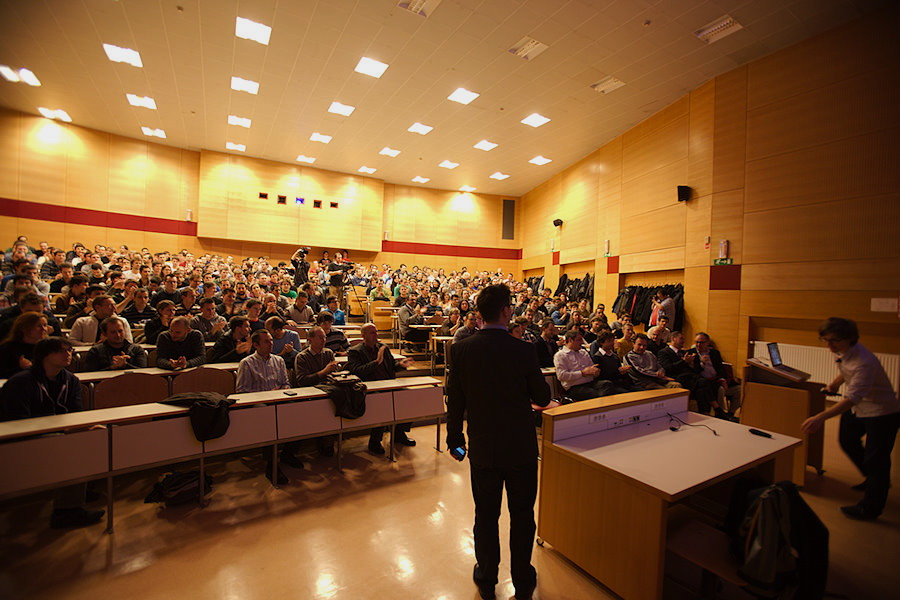
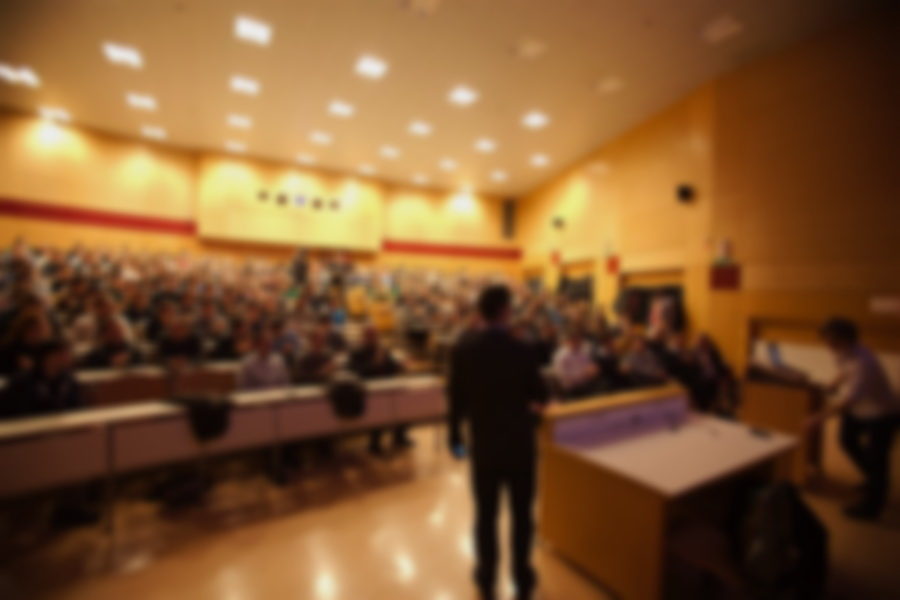
Edit Signup BG image //Blur + Layout CSS

diff --git a/application/views/includes/header.php b/application/views/includes/header.php
@@ -57,8 +57,8 @@ $profile = base_url("index.php/user/profile");
                 </ul>
                 <div class="navbar-text pull-right" style="margin-bottom: -30px">
                     <?php echo form_open("user/signout"); ?>
-                    Logged in as <a href="<?php echo $profile ?>" class="navbar-link"><?php echo $this->session->userdata('user_name'); ?></a>
-                    <button type="submit" value="signout" class="btn" style="margin-bottom: 10px; margin-left: 10px">Sign out</button>
+                    Logged in as <a href="<?php echo $profile ?>" class="navbar-link"><b><?php echo $this->session->userdata('user_name'); ?></b></a>
+                    <button type="submit" value="signout" class="btn btn-danger" style="margin-bottom: 10px; margin-left: 10px">Sign out</button>
                     <?php echo form_close(); ?>
                 </div>
             </div><!--/.nav-collapse -->

diff --git a/application/views/login/signup.php b/application/views/login/signup.php
@@ -2,7 +2,7 @@
 
 <style type="text/css">
     body {
-        padding-top: 60px;
+        padding-top: 76px;
         padding-bottom: 0px;
         background-image: url("<?php echo base_url("/resources/signup.jpg"); ?>");
         background-size: 100% 100%;
@@ -10,9 +10,9 @@
     }
     .form-signup {
         max-width: 350px;
-        padding: 19px 29px 29px;
+        padding: 9px 19px 19px;
         margin: 0 auto 20px;
-        background-color: rgba(0,0,0,0.75);
+        background-color: rgba(0,0,0,0.5);
         -webkit-border-radius: 5px;
         -moz-border-radius: 5px;
         border-radius: 5px;

diff --git a/application/views/home.php b/application/views/home.php
@@ -59,7 +59,7 @@
     <?php
                 echo base_url("index.php/assessment/test/{$asm_info_row->AssessmentID}/1");
                 ?>
-        ">Save Progress &raquo;</a></p>
+        "><i class="icon-hdd icon-white"></i> Save Progress</a></p>
             <?php    echo "</div><!-- /.span4 -->";
         }
     ?>
